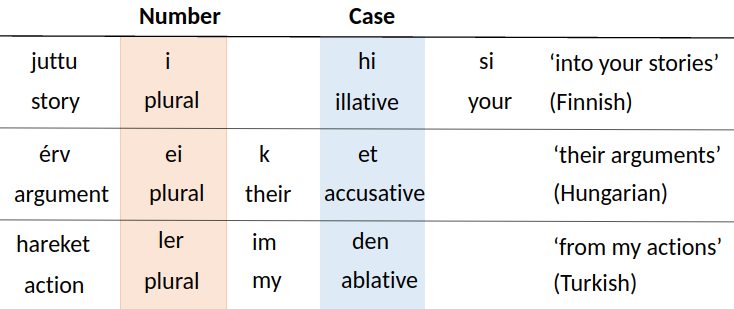
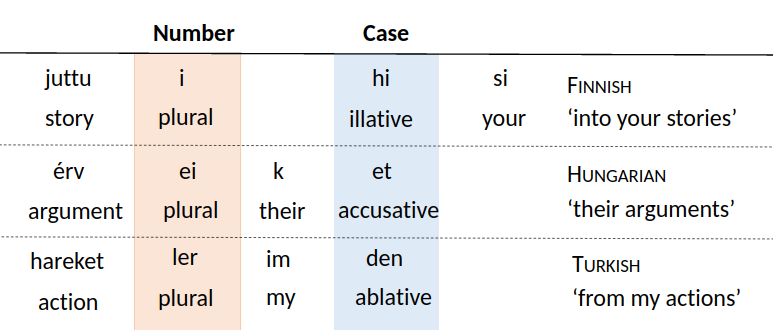
code

diff --git a/name.tex b/name.tex
@@ -284,7 +284,7 @@ This universal is supported by the example in Figure~\ref{fig:noun-inflection}.
 %\end{tabular}
 
 
-	\caption{Examples for noun inflection in the three languages in our sample. All three languages support Greenberg's Universal 39 by placing the case marker after the plural marker, but they differ in the placement of the possessive marker.\mhahn{TODO I'll still adapt the formatting to the verb affix table below}}\label{fig:noun-inflection}
+	\caption{Examples for noun inflection in the three languages in our sample. All three languages support Greenberg's Universal 39 by placing the case marker after the plural marker, but they differ in the placement of the possessive marker.}\label{fig:noun-inflection}
 \end{figure}
 
 
